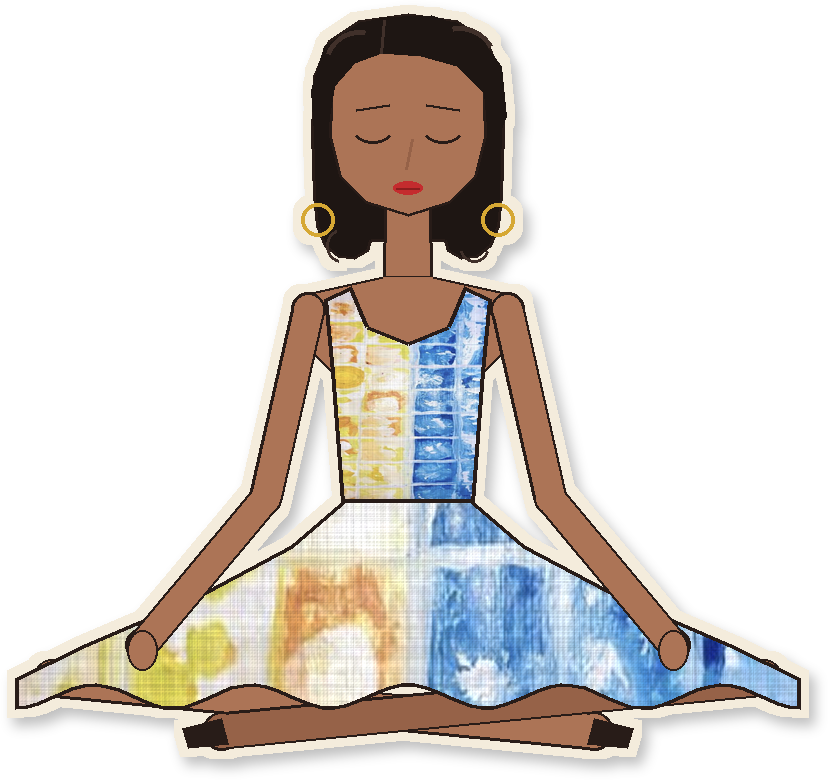
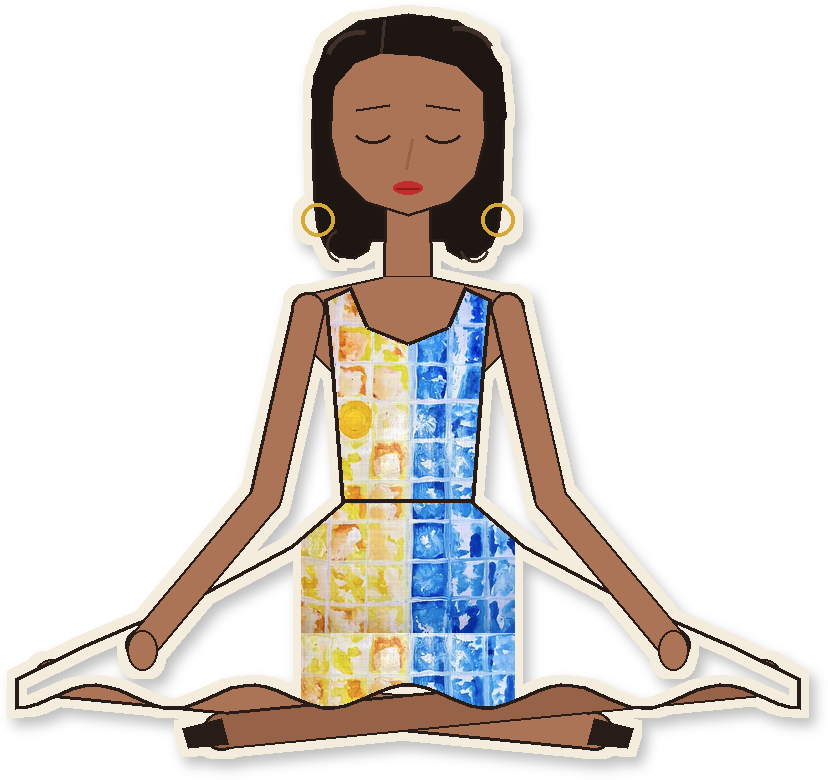
Reel 6: sharper dress - continuous print at native resolution, whole painting width across the dress, one sun, finer linen; artwork file
Claude-Session: https://claude.ai/code/session_019PesBtHR7CKNsBgSZ5B6oT

Changed region(s): [[0.0, 0.3692, 0.9662, 0.9231]]

diff --git a/reel6/cast.py b/reel6/cast.py
@@ -20,16 +20,21 @@ def linen(img, k=0.16, seed=7):
     slub = np.asarray(Image.fromarray((r.random((h // 6, w // 40)) * 255).astype(np.uint8)).resize((w, h), Image.BICUBIC)).astype(np.float32) / 255
     weave = 0.5 * rows + 0.5 * cols + 1.4 * (slub - 0.5) * (r.random((h, 1)) > 0.7)
     fine = (np.indices((h, w)).sum(0) % 4 < 2) * 0.5 - 0.25
-    a = a * (1 + k * np.tanh(weave)[..., None] + 0.06 * fine[..., None])
-    g = a.mean(2, keepdims=True); a = g + (a - g) * 0.9 + 0.02
+    a = a * (1 + k * np.tanh(weave)[..., None] + 0.025 * fine[..., None])
+    g = a.mean(2, keepdims=True); a = g + (a - g) * 0.97 + 0.01
     return Image.fromarray((np.clip(a, 0, 1) * 255).astype(np.uint8))
 
 def dress_print():
-    art = os.path.join(HERE, "artwork.jpg")                # Della's full-resolution artwork, when it is there
+    """The artwork turned on its side (sun half left, sea half right), at native resolution, never upscaled.
+    A light sharpen, a little more colour, and a fine linen weave."""
+    from PIL import ImageEnhance, ImageFilter
+    art = os.path.join(HERE, "artwork.jpg")
     p = Image.open(art if os.path.exists(art) else os.path.join(HERE, "sunset2.jpg")).convert("RGB")
-    if p.width > p.height: p = p.rotate(90, expand=True)  # sky to the left
-    p = p.crop((0, 0, int(p.width * 810 / 1083), p.height))  # sun half and sea half about equal, like the dress photo
-    return linen(p.resize((900, 2250), Image.LANCZOS), k=0.10)   # narrow, so the whole width wraps the fitted dress
+    if p.width > p.height: p = p.rotate(90, expand=True)
+    p = p.crop((0, 0, int(p.width * 810 / 1083), p.height))
+    p = ImageEnhance.Color(p).enhance(1.15); p = ImageEnhance.Contrast(p).enhance(1.06)
+    p = p.filter(ImageFilter.UnsharpMask(radius=1.6, percent=90, threshold=2))
+    return linen(p, k=0.05)
 
 def girl6():
     src = open(os.path.join(HANTA, "reel3", "girl.py")).read()
@@ -50,10 +55,33 @@ def girl6():
     return [(-37, 290)] + right + _wavy_hem(566, 182) + [(-x, y) for x, y in right[::-1]]''', '''def _skirt_poly():
     right = [(38, 290), (50, 330), (56, 400), (56, 470), (54, 524)]
     return [(-38, 290)] + right + [(-x, y) for x, y in right[::-1]]''')
+    src = src.replace("    f = Fig(cx, top, height / 975)\n", "    f = Fig(cx, top, height / 975)\n    global _CURF; _CURF = f\n", 1)
+    src += """
+
+_tex_orig = _tex
+def _tex(layer, tex, poly):
+    if tex is not SKIRT and tex is not SPRING:
+        return _tex_orig(layer, tex, poly)
+    f = _CURF
+    (x0, y0), (x1, y1) = f.p(-64, 150), f.p(64, 532)
+    x0, y0, x1, y1 = int(x0), int(y0), int(x1) + 1, int(y1) + 1
+    w, h = x1 - x0, y1 - y0
+    tw = w; th = int(tex.height * w / tex.width)                 # the whole width of the painting across the dress
+    one = tex.resize((tw, th), Image.LANCZOS)
+    col = Image.new("RGB", (tw, h + th))
+    col.paste(one, (0, 0)); y_ = th
+    rest = one.crop((0, int(th * 659 / 1390), tw, th))             # below the sun, starting on a grid line: one sun only
+    while y_ < h + th:
+        col.paste(rest, (0, y_)); y_ += rest.height
+    t = col.crop((0, 0, tw, h)).convert("RGBA")
+    full = Image.new("RGBA", layer.size, (0, 0, 0, 0)); full.paste(t, (x0, y0))
+    m = Image.new("L", layer.size, 0); ImageDraw.Draw(m).polygon(poly, fill=255)
+    layer.paste(full, (0, 0), m)
+"""
     m = types.ModuleType("girl6"); m.__file__ = os.path.join(HANTA, "reel3", "girl.py")
     exec(compile(src, "girl6", "exec"), m.__dict__)
     pr = dress_print()
-    m.SKIRT = pr; m.SPRING = pr.resize((pr.width, pr.height // 3), Image.LANCZOS)
+    m.SKIRT = pr; m.SPRING = pr
     return m
 
 def save(L, name): L.crop(L.getbbox()).save(os.path.join(OUT, name))

diff --git a/reel6/render.py b/reel6/render.py
@@ -263,6 +263,8 @@ def print_full():
         p = p.crop((0, 0, int(p.width * 810 / 1083), p.height))
         s = 1920 / p.height
         p = p.resize((int(p.width * s), 1920), Image.LANCZOS)
+        from PIL import ImageEnhance
+        p = ImageEnhance.Color(p).enhance(1.12).filter(ImageFilter.UnsharpMask(radius=2, percent=80, threshold=2))
         PRINT = p.crop(((p.width - W) // 2, 0, (p.width - W) // 2 + W, H)).convert("RGBA")
     return PRINT
 
